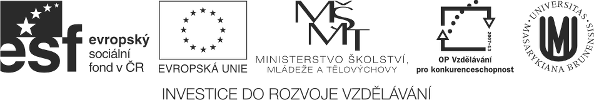
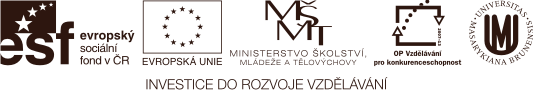
OP VK logolink fix

diff --git a/public/css/screen.css b/public/css/screen.css
@@ -158,4 +158,4 @@ table#score-stats { margin: 0px; }
 #answer-history .correct td.code { background-color: rgb(26,110,0); color: white; }
 
 /* leftovers */
-.opvk { text-align:center; margin-top: 30px; }
+.opvk { text-align:center; margin-top: 30px; margin-bottom: 30px; margin-left: 20px; margin-right: 20px; }
